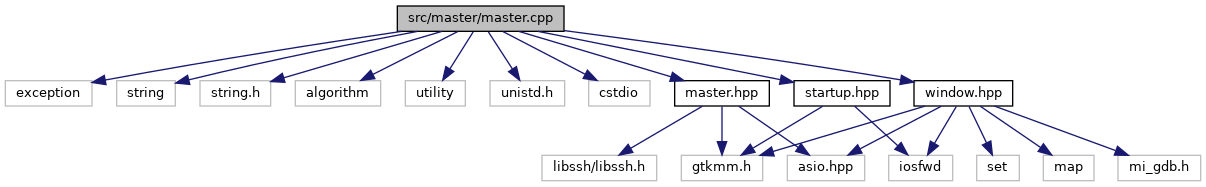
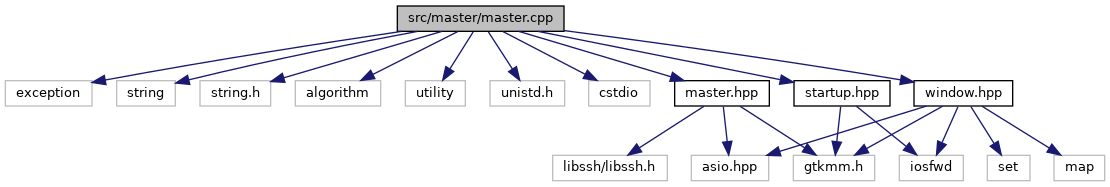
update doc

diff --git a/docs/window_8cpp.html b/docs/window_8cpp.html
@@ -101,12 +101,13 @@ $(document).ready(function(){initNavTree('window_8cpp.html',''); initResizable()
 <code>#include &quot;<a class="el" href="breakpoint__dialog_8hpp.html">breakpoint_dialog.hpp</a>&quot;</code><br />
 <code>#include &quot;<a class="el" href="follow__dialog_8hpp.html">follow_dialog.hpp</a>&quot;</code><br />
 <code>#include &quot;<a class="el" href="canvas_8hpp.html">canvas.hpp</a>&quot;</code><br />
+<code>#include &quot;mi_gdb.h&quot;</code><br />
 </div><div class="textblock"><div class="dynheader">
 Include dependency graph for window.cpp:</div>
 <div class="dyncontent">
 <div class="center"><img src="window_8cpp__incl.png" border="0" usemap="#asrc_2master_2window_8cpp" alt=""/></div>
 <map name="asrc_2master_2window_8cpp" id="asrc_2master_2window_8cpp">
-<area shape="rect" title="Contains the implementation of the UIWindow class." alt="" coords="586,5,757,32"/>
+<area shape="rect" title="Contains the implementation of the UIWindow class." alt="" coords="661,5,831,32"/>
 <area shape="rect" title=" " alt="" coords="5,80,92,107"/>
 <area shape="rect" title=" " alt="" coords="116,80,171,107"/>
 <area shape="rect" title=" " alt="" coords="195,80,265,107"/>
@@ -118,12 +119,12 @@ Include dependency graph for window.cpp:</div>
 <area shape="rect" href="breakpoint__dialog_8hpp.html" title="Header file for the BreakpointDialog class." alt="" coords="1037,80,1204,107"/>
 <area shape="rect" href="follow__dialog_8hpp.html" title="Header file for the FollowDialog class." alt="" coords="1228,80,1365,107"/>
 <area shape="rect" href="canvas_8hpp.html" title="Header file for the UIDrawingArea class." alt="" coords="773,80,869,107"/>
+<area shape="rect" title=" " alt="" coords="1513,80,1595,107"/>
 <area shape="rect" title=" " alt="" coords="1080,155,1161,181"/>
-<area shape="rect" title=" " alt="" coords="1498,155,1541,181"/>
-<area shape="rect" title=" " alt="" coords="1565,155,1615,181"/>
-<area shape="rect" title=" " alt="" coords="1197,155,1261,181"/>
-<area shape="rect" title=" " alt="" coords="1290,155,1367,181"/>
-<area shape="rect" title=" " alt="" coords="1391,155,1474,181"/>
+<area shape="rect" title=" " alt="" coords="1347,155,1390,181"/>
+<area shape="rect" title=" " alt="" coords="1414,155,1465,181"/>
+<area shape="rect" title=" " alt="" coords="1223,155,1287,181"/>
+<area shape="rect" title=" " alt="" coords="1489,155,1566,181"/>
 </map>
 </div>
 </div><a name="details" id="details"></a><h2 class="groupheader">Detailed Description</h2>

diff --git a/docs/master_8cpp.html b/docs/master_8cpp.html
@@ -119,13 +119,12 @@ Include dependency graph for master.cpp:</div>
 <area shape="rect" href="master_8hpp.html" title="Header file for the Master class." alt="" coords="675,80,769,107"/>
 <area shape="rect" href="window_8hpp.html" title="Header file for the UIWindow class." alt="" coords="914,80,1013,107"/>
 <area shape="rect" href="startup_8hpp.html" title="Header file for the StartupDialog class." alt="" coords="794,80,890,107"/>
-<area shape="rect" title=" " alt="" coords="787,155,865,181"/>
-<area shape="rect" title=" " alt="" coords="681,155,763,181"/>
-<area shape="rect" title=" " alt="" coords="542,155,657,181"/>
-<area shape="rect" title=" " alt="" coords="977,155,1019,181"/>
-<area shape="rect" title=" " alt="" coords="1043,155,1094,181"/>
-<area shape="rect" title=" " alt="" coords="889,155,953,181"/>
-<area shape="rect" title=" " alt="" coords="1118,155,1201,181"/>
+<area shape="rect" title=" " alt="" coords="691,155,769,181"/>
+<area shape="rect" title=" " alt="" coords="793,155,875,181"/>
+<area shape="rect" title=" " alt="" coords="553,155,667,181"/>
+<area shape="rect" title=" " alt="" coords="987,155,1030,181"/>
+<area shape="rect" title=" " alt="" coords="1054,155,1105,181"/>
+<area shape="rect" title=" " alt="" coords="899,155,963,181"/>
 </map>
 </div>
 </div><table class="memberdecls">

diff --git a/docs/window_8hpp.html b/docs/window_8hpp.html
@@ -98,19 +98,17 @@ $(document).ready(function(){initNavTree('window_8hpp.html',''); initResizable()
 <code>#include &lt;map&gt;</code><br />
 <code>#include &lt;iosfwd&gt;</code><br />
 <code>#include &quot;asio.hpp&quot;</code><br />
-<code>#include &quot;mi_gdb.h&quot;</code><br />
 </div><div class="textblock"><div class="dynheader">
 Include dependency graph for window.hpp:</div>
 <div class="dyncontent">
 <div class="center"><img src="window_8hpp__incl.png" border="0" usemap="#asrc_2master_2window_8hpp" alt=""/></div>
 <map name="asrc_2master_2window_8hpp" id="asrc_2master_2window_8hpp">
-<area shape="rect" title="Header file for the UIWindow class." alt="" coords="157,5,329,32"/>
+<area shape="rect" title="Header file for the UIWindow class." alt="" coords="117,5,289,32"/>
 <area shape="rect" title=" " alt="" coords="5,80,87,107"/>
 <area shape="rect" title=" " alt="" coords="111,80,154,107"/>
 <area shape="rect" title=" " alt="" coords="178,80,229,107"/>
 <area shape="rect" title=" " alt="" coords="253,80,317,107"/>
 <area shape="rect" title=" " alt="" coords="341,80,418,107"/>
-<area shape="rect" title=" " alt="" coords="442,80,525,107"/>
 </map>
 </div>
 </div><div class="textblock"><div class="dynheader">

diff --git a/docs/breakpoint_8cpp.html b/docs/breakpoint_8cpp.html
@@ -102,12 +102,11 @@ Include dependency graph for breakpoint.cpp:</div>
 <area shape="rect" title=" " alt="" coords="5,80,64,107"/>
 <area shape="rect" href="breakpoint_8hpp.html" title="Header file for the Breakpoint class." alt="" coords="88,80,208,107"/>
 <area shape="rect" href="window_8hpp.html" title="Header file for the UIWindow class." alt="" coords="232,80,331,107"/>
-<area shape="rect" title=" " alt="" coords="29,155,110,181"/>
-<area shape="rect" title=" " alt="" coords="135,155,199,181"/>
-<area shape="rect" title=" " alt="" coords="431,155,473,181"/>
-<area shape="rect" title=" " alt="" coords="497,155,548,181"/>
-<area shape="rect" title=" " alt="" coords="223,155,300,181"/>
-<area shape="rect" title=" " alt="" coords="324,155,407,181"/>
+<area shape="rect" title=" " alt="" coords="154,155,235,181"/>
+<area shape="rect" title=" " alt="" coords="65,155,129,181"/>
+<area shape="rect" title=" " alt="" coords="260,155,303,181"/>
+<area shape="rect" title=" " alt="" coords="327,155,377,181"/>
+<area shape="rect" title=" " alt="" coords="401,155,479,181"/>
 </map>
 </div>
 </div><a name="details" id="details"></a><h2 class="groupheader">Detailed Description</h2>
